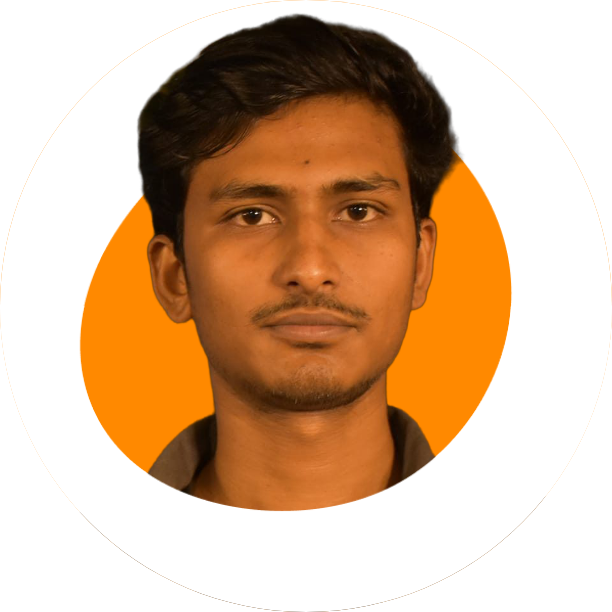
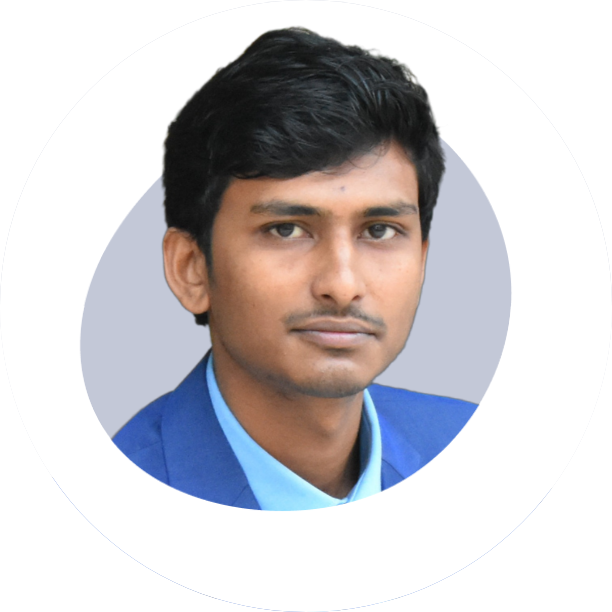
info update

diff --git a/components/intro.tsx b/components/intro.tsx
@@ -32,7 +32,7 @@ export default function Intro() {
           >
             <Image
               src="/profile-pic.png"
-              alt="Ricardo portrait"
+              alt="Shohag portrait"
               width="192"
               height="192"
               quality="95"
@@ -40,20 +40,6 @@ export default function Intro() {
               className="h-24 w-24 rounded-full object-cover border-[0.35rem] border-white shadow-xl"
             />
           </motion.div>
-
-          <motion.span
-            className="absolute bottom-0 right-0 text-4xl"
-            initial={{ opacity: 0, scale: 0 }}
-            animate={{ opacity: 1, scale: 1 }}
-            transition={{
-              type: "spring",
-              stiffness: 125,
-              delay: 0.1,
-              duration: 0.7,
-            }}
-          >
-            👋
-          </motion.span>
         </div>
       </div>
 
@@ -89,30 +75,32 @@ export default function Intro() {
           <BsArrowRight className="opacity-70 group-hover:translate-x-1 transition" />
         </Link>
 
-        <a
+        <Link
           className="group bg-white px-7 py-3 flex items-center gap-2 rounded-full outline-none focus:scale-110 hover:scale-110 active:scale-105 transition cursor-pointer borderBlack dark:bg-white/10"
           href="/resume.pdf"
           download
+          target="_blank"
         >
           Download CV{" "}
           <HiDownload className="opacity-60 group-hover:translate-y-1 transition" />
-        </a>
+        </Link>
+        <div className="flex gap-2">
+          <Link
+            className="bg-white p-4 text-gray-700 hover:text-gray-950 flex items-center gap-2 rounded-full focus:scale-[1.15] hover:scale-[1.15] active:scale-105 transition cursor-pointer borderBlack dark:bg-white/10 dark:text-white/60"
+            href="https://www.linkedin.com/in/hackershohag"
+            target="_blank"
+          >
+            <BsLinkedin />
+          </Link>
 
-        <a
-          className="bg-white p-4 text-gray-700 hover:text-gray-950 flex items-center gap-2 rounded-full focus:scale-[1.15] hover:scale-[1.15] active:scale-105 transition cursor-pointer borderBlack dark:bg-white/10 dark:text-white/60"
-          href="https://www.linkedin.com/in/hackershohag"
-          target="_blank"
-        >
-          <BsLinkedin />
-        </a>
-
-        <a
-          className="bg-white p-4 text-gray-700 flex items-center gap-2 text-[1.35rem] rounded-full focus:scale-[1.15] hover:scale-[1.15] hover:text-gray-950 active:scale-105 transition cursor-pointer borderBlack dark:bg-white/10 dark:text-white/60"
-          href="https://github.com/hackershohag"
-          target="_blank"
-        >
-          <FaGithubSquare />
-        </a>
+          <Link
+            className="bg-white p-4 text-gray-700 flex items-center gap-2 text-[1.35rem] rounded-full focus:scale-[1.15] hover:scale-[1.15] hover:text-gray-950 active:scale-105 transition cursor-pointer borderBlack dark:bg-white/10 dark:text-white/60"
+            href="https://github.com/hackershohag"
+            target="_blank"
+          >
+            <FaGithubSquare />
+          </Link>
+        </div>
       </motion.div>
     </section>
   );

diff --git a/components/about.tsx b/components/about.tsx
@@ -4,6 +4,8 @@ import React from "react";
 import SectionHeading from "./section-heading";
 import { motion } from "framer-motion";
 import { useSectionInView } from "@/lib/hooks";
+import { Button } from "@react-email/components";
+import Link from "next/link";
 
 export default function About() {
   const { ref } = useSectionInView("About");
@@ -21,14 +23,8 @@ export default function About() {
       <p className="mb-3">
         As a Computer Science &amp; Engineering student with a keen interest in research, I am dedicated to delving deep into the realms of technology and innovation. I am currently pursuing my undergraduate degree in <span className="font-medium">Computer Science &amp; Engineering</span>, with a strong emphasis on research methodologies and computational problem-solving. My academic journey has been marked by a relentless pursuit of knowledge and exploration.
         My passion for programming led me to engage in intensive research projects, where I apply theoretical concepts to real-world challenges. I am particularly fascinated by the intersection of <span className="font-medium">artificial intelligence</span> and <span className="font-medium">machine learning</span>, seeking to unravel the mysteries of intelligent systems and their applications in diverse domains.
-        While I have a foundational understanding of <span className="font-medium">full-stack web development</span>, my primary focus lies in leveraging cutting-edge technologies to advance the frontiers of computational science. I am proficient in <span className="font-medium">React</span>, <span className="font-medium">Next.js</span>, <span className="font-medium">Node.js</span>, and <span className="font-medium">MongoDB</span>, and I continually explore emerging frameworks and tools to enhance my expertise.
-        My academic endeavors are complemented by a fervent curiosity for <span className="font-medium">history and philosophy</span>, as I believe that a holistic understanding of human thought and civilization enriches my perspective as a researcher. Furthermore, I am nurturing my musical talents by learning to play the guitar, finding solace and inspiration in the harmonies of music.
       </p>
-
-      <p>
-        <span className="italic">When I'm not immersed in research or coding</span>, I enjoy immersing myself in the vast realms of knowledge and culture. Whether delving into the intricacies of history, pondering philosophical inquiries, or engaging in spirited discussions, I relish the opportunity to broaden my horizons and challenge my intellect.
-        Beyond academia, I find joy in the simple pleasures of life, indulging in video games, cinematic experiences, and the companionship of my beloved dog. These moments of leisure rejuvenate my spirit and imbue me with renewed energy for my academic pursuits.
-      </p>
+      {/* <Link href="/about" className="mt-8">Read more</Link> */}
 
     </motion.section>
   );

diff --git a/lib/data.ts b/lib/data.ts
@@ -10,7 +10,7 @@ import keyboarImg from "@/public/keyboard.png";
 export const links = [
   {
     name: "Home",
-    hash: "#home",
+    hash: "/",
   },
   {
     name: "About",
@@ -45,19 +45,19 @@ export const experiencesData = [
   },
   {
     title: "Front-End Developer",
-    location: "Orlando, FL",
+    location: "Shotti Bookings",
     description:
-      "I worked as a front-end developer for 2 years in 1 job and 1 year in another job. I also upskilled to the full stack.",
+      "I worked as a front-end developer at Shotti Bookings, a bus ticket management project. I also upskilled to the full stack.",
     icon: React.createElement(CgWorkAlt),
-    date: "2019 - 2021",
+    date: "2014",
   },
   {
     title: "Full-Stack Developer",
-    location: "Houston, TX",
+    location: "RUET Career Forum",
     description:
-      "I'm now a full-stack developer working as a freelancer. My stack includes React, Next.js, TypeScript, Tailwind, Prisma and MongoDB. I'm open to full-time opportunities.",
+      "As a club member and and dev Team Lead, I developed the official website of RUET Career Forum. I also worked on various projects.",
     icon: React.createElement(FaReact),
-    date: "2021 - present",
+    date: "2024",
   },
 ] as const;
 

diff --git a/app/about/layout.tsx b/app/about/layout.tsx
@@ -1,0 +1,13 @@
+export default function AboutLayout({
+    children,
+}: {
+    children: React.ReactNode;
+}) {
+    return (
+        <section className="flex flex-col items-center justify-center gap-4 py-8 md:py-10">
+            <div className="inline-block text-center justify-center">
+                {children}
+            </div>
+        </section>
+    );
+}

diff --git a/app/about/page.tsx b/app/about/page.tsx
@@ -1,0 +1,9 @@
+import React from 'react'
+
+function AboutPage() {
+    return (
+        <div>AboutPage</div>
+    )
+}
+
+export default AboutPage
